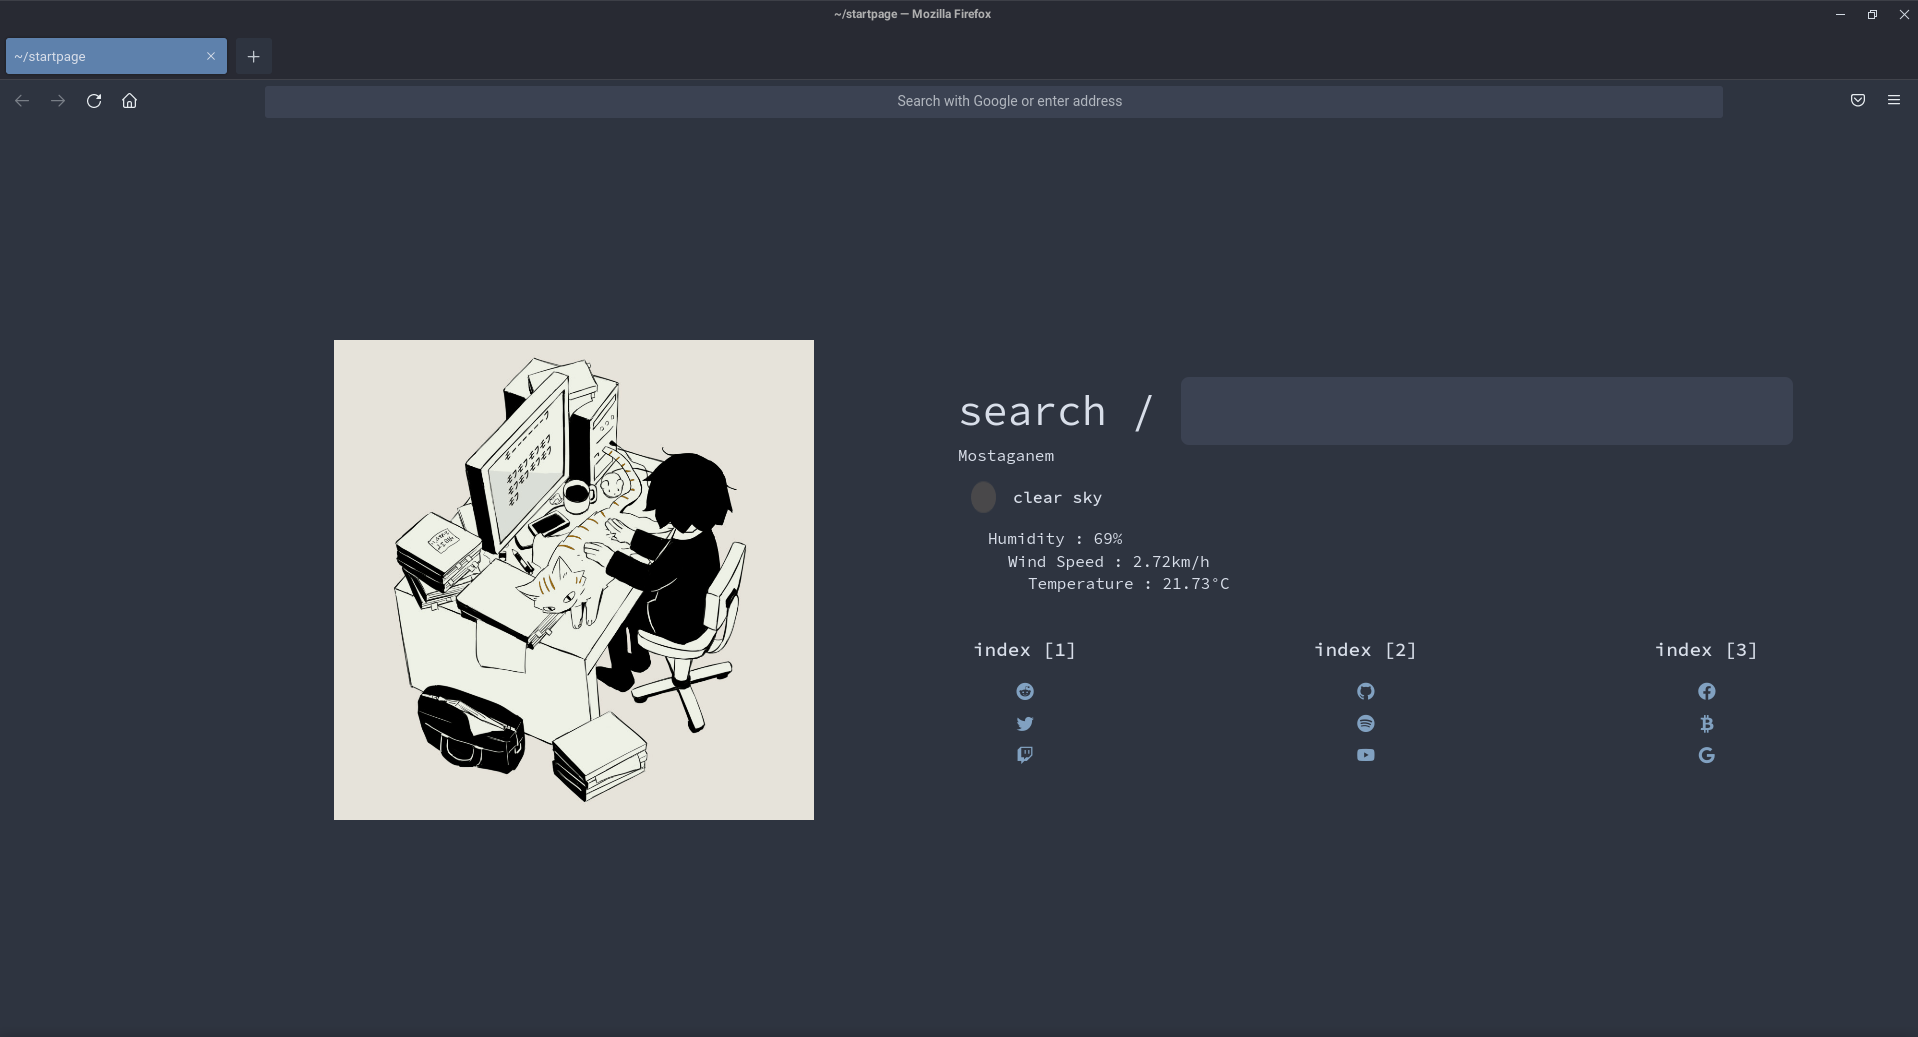
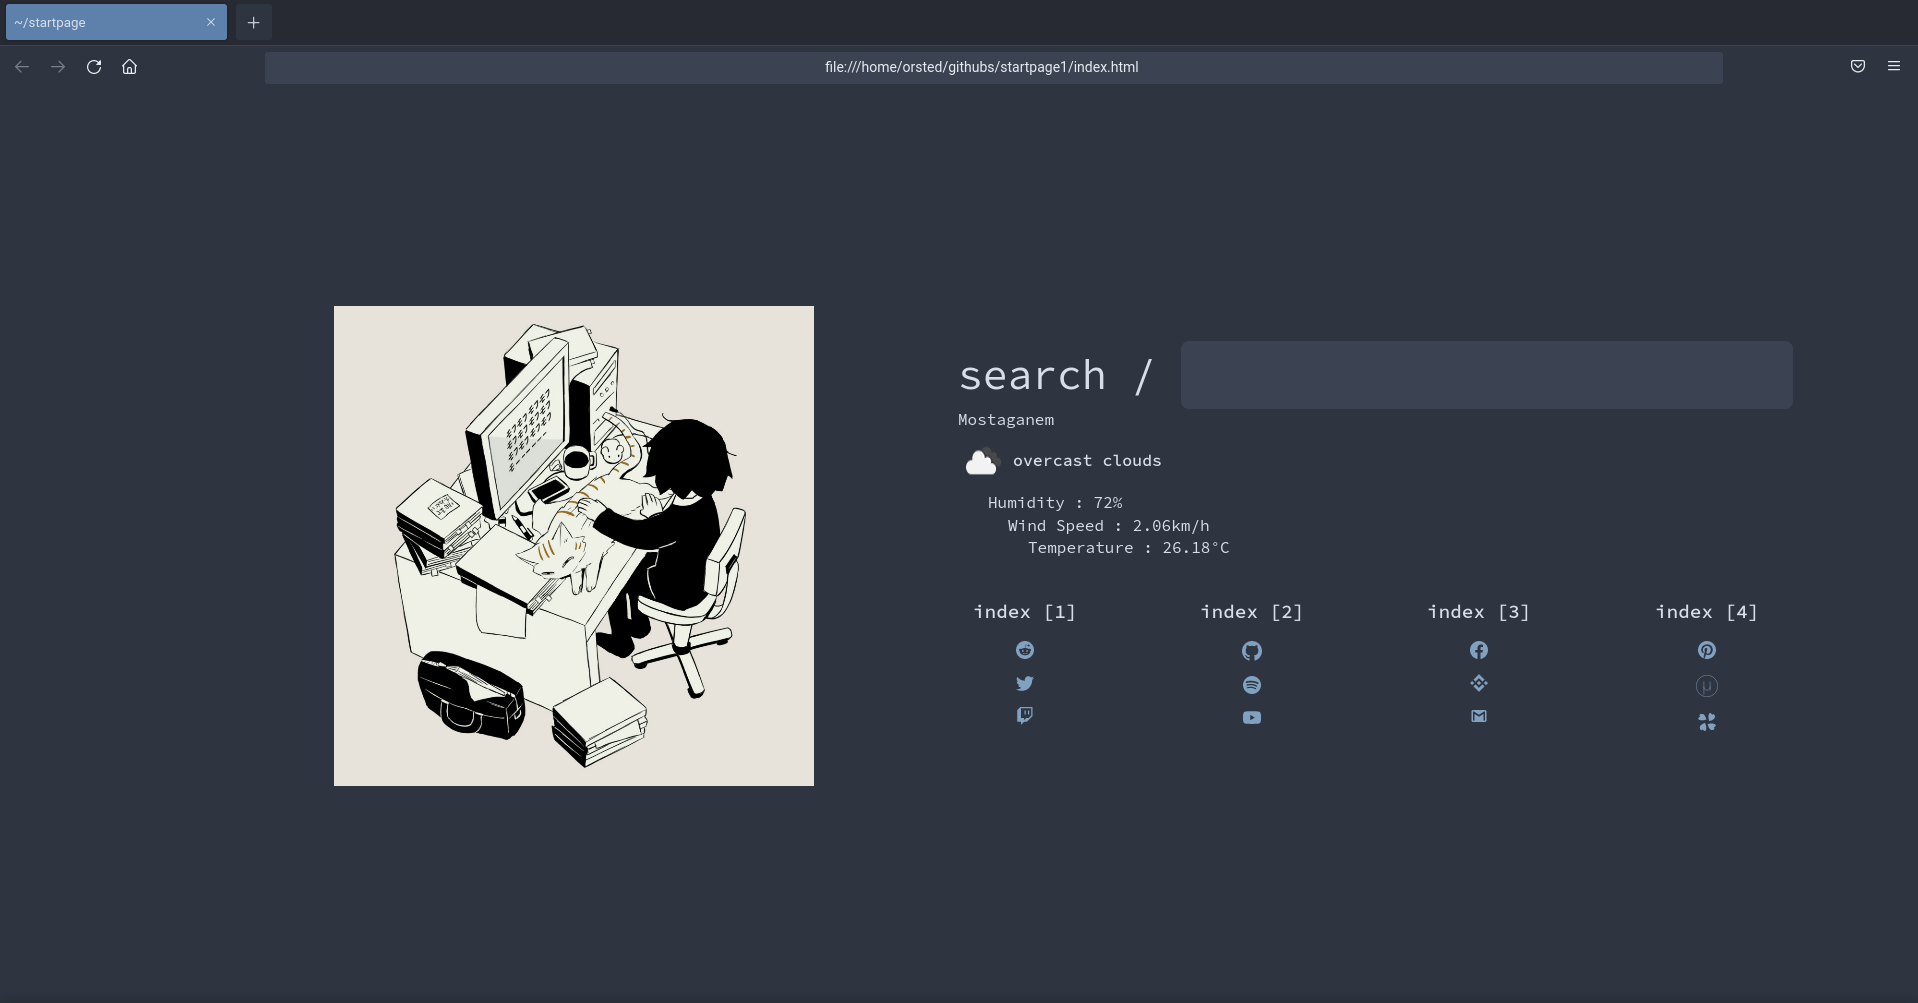
README.md

diff --git a/README.md b/README.md
@@ -1,12 +1,7 @@
 # Startpage <!-- omit in toc --> 
 
-[Live preview (no weather as to not leak API key)](https://startpage.easun.me)
-
-
 ![startpage](preview.png)
 
-
-<!-- [Live Preview](https://kencx.github.io/startpage/) -->
 ## Table of Contents <!-- omit in toc --> 
 - [Installation](#installation)
 	- [Materials](#materials)
@@ -28,17 +23,17 @@
 
 #### Basic Setup
 
-1. Grab the latest [release](https://github.com/eaaasun/startpage/releases/latest)
+1. Grab the latest [release]
 2. Unzip files and move to a convenient location (e.g. Documents)
 3. Go into your browser settings (Firefox: `about:preferences`, Chrome/chromium-based: `chrome://settings/`)
 4. Set the homepage to `file:///[PATH TO STARTPAGE]/index.html` (example: `file:///D:/documents/startpage/index.html`)
 5. Open the homepage and check if things are working. There will be no weather data, and we will fix as part of the next step.
 6. Open index.html in your code editor of choice.
    1. Find the `<section>` elements and replace the `website text`, `section header`, and `https://example.com` with your own links and text. You can copy-paste or delete the `<section>` elements to fit your needs (I recommend a maximum of 3-4 sections).
-   2. If you want the weather to be displayed, leave the `weather` variable as-is. Otherwise, change it to `false` and skip the rest of this step.
-   3. In the `<script>` tag, replace the `[API KEY]` with your own OpenWeatherMap API key. (See [here](#getting-an-openweathermap-api-key) for instructions.)
-   4. In the `<script>` tag, replace the `lon` and `lat` variables with your own longitude and latitude respectively.
-   5. In the `<script>` tag, change the `units` variable to either `imperial` or `metric`.
+   2. open script.js
+   3. In the `apiKey` variable, replace the `[API KEY]` with your own OpenWeatherMap API key. (See [here](#getting-an-openweathermap-api-key) for instructions.)
+   4. In the `weather.fetchweather("city")` variable, replace the `city` variable with your own.
+   5. In the `units` Url variable, change the `units` variable to either `imperial` or `metric`.
 7. If you want to replace the image, replace the `image.gif` file with your own image/gif of choice.
 8. You should now have a working startpage!
 
